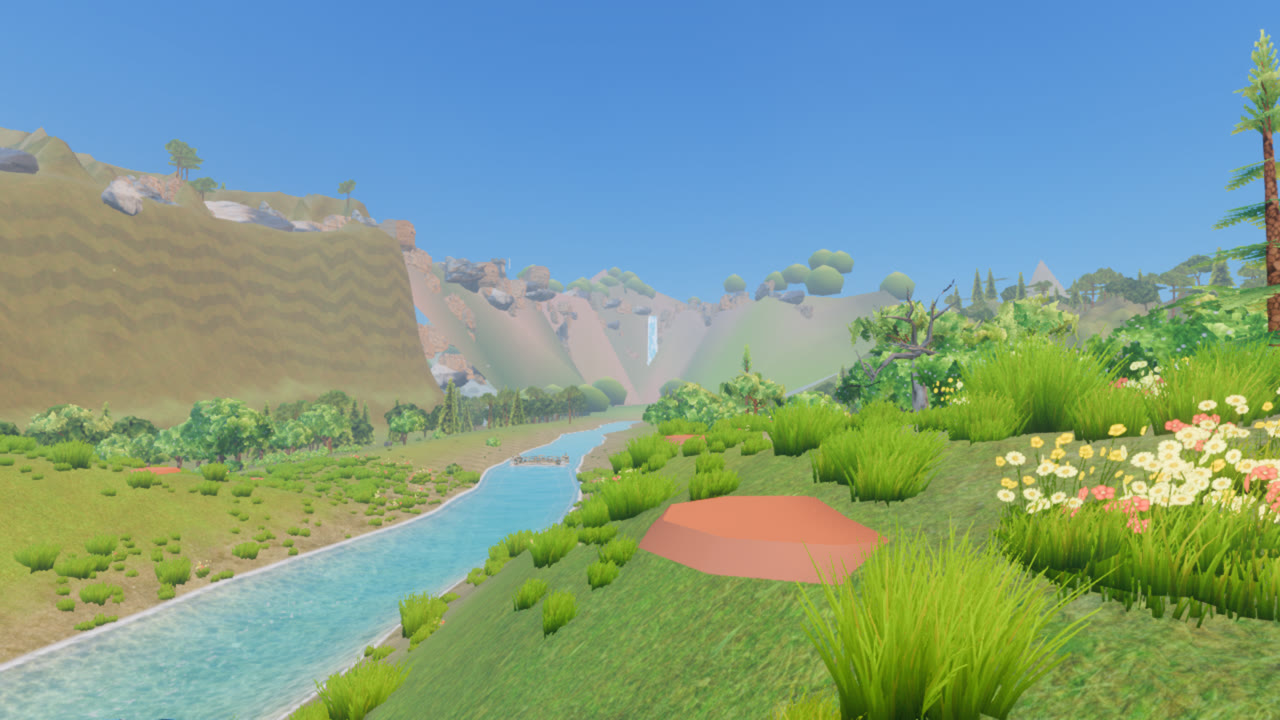
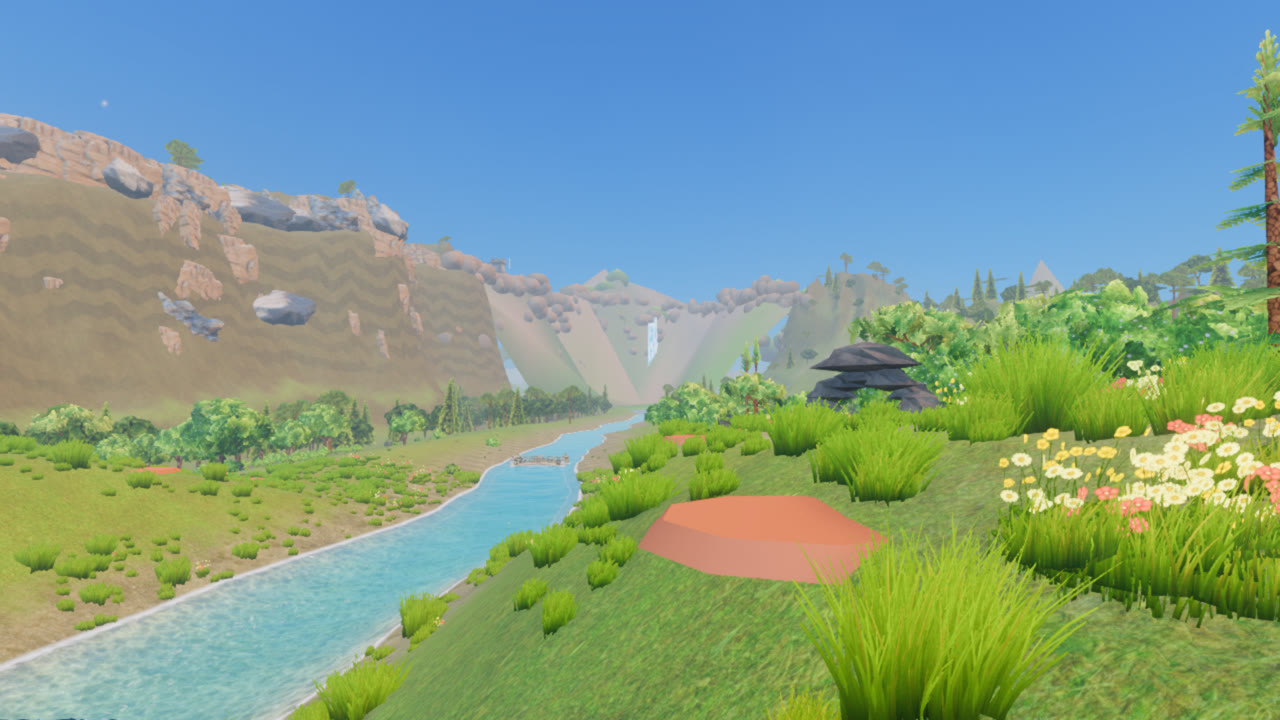
Region 1 look pass 2 verified + Hidden Vale fixes: seated cliff rocks, slope-aligned floor cards, streamed flyover, sandstone walls, lush vale
- Verified pass 2 (valley erosion detail, gorge gate, walk-in, parchment map): boot test BOOTFLOW OK, captures read.
- Hidden Vale (cloud handoff item 2): rocks seated on the rendered mesh (Region1Look.mesh_floor), floor/ cards follow
  the slope (TerrainStreamer.slope_basis), the discovery flyover streams around its camera path (Engine meta
  stream_focus, read by main.gd), horizon gives way only where chunks are built and domes sit on its grid,
  sandstone rock hue + stone on steep faces, biome map re-baked vale-aware, vale litter 0.3 -> 0.1.
- Two valleys kept distinct (Hollin's Reach public story valley, Hidden Vale secret bowl): LOOK_R1.md 3b.
- LOW: no canopy domes, cliff rocks within 320 m; HIGH: far cliff rocks as 48-tri lumps past 260 m (PERF.md).
- tools_qa/region1/run_tool.tscn runs SceneTree tools with autoloads.
Unverified: phone perf; gorge walls still smooth up close.

diff --git a/docs/LOCAL_SESSION_HANDOFF.md b/docs/LOCAL_SESSION_HANDOFF.md
@@ -6,6 +6,8 @@ The user runs **two Claude sessions on this branch at the same time**: the cloud
 - Built: the Hollin's Reach valley (upper Ashrun: cliffs, falls, terraces, ruins, Stone Gap reveal, gorge gate), the Drowned Bell + Emberglass Ferry, Crownstead Mill Hill, Stagborn Glade, the Wyrm's Ribs; far horizon (whole-world low mesh + canopy domes), biome map + field patchwork, warm rock, golden-hour sky, river-carve fix, updated parchment map.
 - Code: `scripts/region1/region1_{terrain,landmarks,look,horizon}.gd`, `shaders/region1/{biome.gdshaderinc,horizon_*,waterfall}`, data in `data/region1/{landmarks,terrain_stamps}.json` + `data/region1/terrain/`.
 - Hot-file one-liners (world_gen, region_sites, region_dressing, main.gd daylight, terrain shader): see `docs/regions/HOOKS_FOR_CLOUD.md` "Region 1 look pass". Please keep them when merging; `--r1off` is the A/B switch.
+- Two valleys kept (Hollin's Reach = public story valley, Hidden Vale = secret bowl): decision in `docs/regions/LOOK_R1.md` 3b. Hidden Vale fixes (item 2 of the cloud handoff) in 3c; small edits in `vale_look.gd`, `hidden_valley.gd` (`_put`, paint litter 0.3->0.1), `exploration_director.gd` (stream focus during the flyover), `main.gd` (`terrain.focus = Engine.get_meta("stream_focus", focus)`), `terrain_streamer.gd` (`slope_basis` for floor cards).
+- `godot -s` tools that touch WorldGen may fail to compile when a dependency uses an autoload; run them through `tools_qa/region1/run_tool.tscn -- --tool=res://...gd`.
 - Tools: `tools_qa/region1/look_capture.gd` (multi-view shots + perf), `bake_valley.gd` (+ `erode_valley.py`, dandrino erosion detail), `bake_biome.gd`, `walkin.gd` (Movie Maker walk), `asset_sheet.gd`.
 
 ## Split of work (from 2026-09-27)
@@ -453,7 +455,7 @@ built with fewer nodes, and drop `_process` work when no site is within BUILD. I
 The cloud container has ~15 GB shared by all agents; full-game captures die. These need your GPU/RAM. Commits: `c30ad754` (dungeons), `eadbfd71` (Region 1 world, story, Hidden Vale, POIs). Skills to read first: `ashes-cloud-testing`, `ashes-region-content`, `ashes-visual-qa`, `ashes-handoff`.
 
 1. **Region 1 world sweep (nobody has seen it rendered).** 30 views in `kingdom/tools_qa/region1/world_views.json`, capture script `kingdom/tools_qa/region1/look_capture.gd` (the cloud wrapper was `run_cap.sh <tag> ALL`). Check every settlement landmark, Highwatch Keep, the 3 Elder Stones + waymark road, Crownstead Steward's Hall, Scar Mouth Arena, Dawn Throne chapel + guild hall, Eastern Gate queue, Grimfen Pass snow + aurora, Solkar camp (summer). Look for floating/clipping/overlapping props, and whether each town is recognisable. Done = contact sheet + list of bugs (fix placement offsets in `region1_world.gd` / `region_dressing.gd` part y-offsets yourself if trivial, else list them here).
-2. **Hidden Vale bugs** (see cloud sheet frames 2, 6, 17): boulders float mid-air inside the gorge (`scripts/world/hidden_valley.gd` / `vale_look.gd`), floating strips in the herb-patch view, the last cutscene frame shows void past the terrain ring (check the real horizon mesh in-game), gorge walls plain, ground a bit olive. Art fixes are yours; placement code fixes are fine too (tell us the lines).
+2. **DONE (local, 2026-09-30, see docs/regions/LOOK_R1.md 3c):** **Hidden Vale bugs** (see cloud sheet frames 2, 6, 17): boulders float mid-air inside the gorge (`scripts/world/hidden_valley.gd` / `vale_look.gd`), floating strips in the herb-patch view, the last cutscene frame shows void past the terrain ring (check the real horizon mesh in-game), gorge walls plain, ground a bit olive. Art fixes are yours; placement code fixes are fine too (tell us the lines).
 3. **Caves on real terrain:** hidden entrances (waterfall behind Hollin Falls, vines, rockfall, night) were only shot on a flat stand-in hill. Walk into one of each theme and fight one boss (`scripts/interiors/dungeon_*.gd`, harness `tools_qa/caves/caves_standalone.gd`). Cave mouths were too white (switched to textured rock, not re-rendered).
 4. **Map carve rim:** carve a ward stone and confirm the teal rim (`scripts/region1/r1_map_layer.gd`) reads on the map.
 5. **Perf round 3 on the real GPU + phone:** city views ~300 draw calls vs 150 budget; Hidden Vale wide views 165-180 draws (eye level 121-149); dungeons ≤ 74. Stalls/plants LOD and guard impostors were the next ideas.

diff --git a/docs/regions/LOOK_R1.md b/docs/regions/LOOK_R1.md
@@ -64,6 +64,26 @@ The upper Ashrun (from its source at (-150, -900) down to the Ashrun Bridge) is 
 | `scripts/core/main.gd` | `sky_amount` in `_update_daylight` (golden hour). |
 | `shaders/terrain.gdshader` | include `region1/biome.gdshaderinc`, 2 lines to apply it, 1 line warm rock. |
 
+## 3b. Two valleys, one region (decision, 2026-09-30)
+The cloud built **the Hidden Vale** (`scripts/world/hidden_valley.gd`, commit eadbfd71) while this pass built **Hollin's Reach**. They do not overlap and are kept as two distinct places:
+| | Hollin's Reach | The Hidden Vale |
+|---|---|---|
+| Where | upper Ashrun, (-205, -660), 700 m from Ashford | far west, (-2040, 40), 2 km from Ashford |
+| Shape | open river valley, 780 m long, cliffs 60-100 m, falls at the head, terraces, gorge gate at the mouth | enclosed bowl behind a rim, one S-bend slot 6-7 m wide |
+| Role | public story place: Tamsin's abandoned village, forty graves, the cut ward-stone (Acts IV-V); on the map | secret: found by rumours and a burnt map fragment; the dream settlement site; off the map until found |
+| Tech | terrain stamp as data (`Region1Terrain`, applied after all shaping) | shape function inside `_raw_height` |
+Shared: both use the Region1Look presenter (ValeLook extends it), the cliff-rock kit and `mesh_floor()` seating, the terrain shader stone and strata, and the biome map (the vale is baked lush). The Hidden Vale cave "Hollin Falls Grotto" (`region_caves.gd`) sits behind Hollin Falls, tying the two together.
+
+## 3c. Hidden Vale fixes (handoff item 2, "2026-09-30 cloud -> local")
+| Bug | Cause | Fix |
+|---|---|---|
+| Boulders floating in the gorge | rocks sat on the exact WorldGen height; the rendered 2 m grid runs well below it on a sheer wall | `Region1Look.mesh_floor()` seats every cliff rock on the lowest mesh vertex of its footprint (`vale_look.gd` line ~90, and the Hollin's Reach kit) |
+| Floating strips in the herb-patch view | flat leaf-litter / moss cards laid horizontally on slopes | `TerrainStreamer.slope_basis()` tilts `floor/` cards to the ground normal (`_plan_floor`), same in `HiddenValley._put` |
+| Void past the terrain ring in the last cutscene frame | the flyover looks 300 m past the frozen player, whose ring was the only one streamed; the far canopy domes hovered over the gap | the vale sequence streams around the flyover (`Engine.set_meta("stream_focus")`, read by `main.gd` for terrain/water focus); the horizon only gives way where a chunk is really built (built-chunk mask); domes sit on the horizon grid |
+| Gorge walls plain | the grey-green scan read olive, and leaf litter/path blended into steep faces | terrain shader: sandstone hue for the rock layer, steep faces drop litter/path weights, strata bands; rocks seated on the walls |
+| Ground a bit olive | the biome map (baked before the vale) painted dry gold there; the vale compensated with 30 % leaf litter | biome map re-baked vale-aware (lush, no dry/heather/fields); vale litter blend 0.3 -> 0.1 |
+Proof: `look/vale/*_before.jpg` / `*_after.jpg`, `look/vale/sheet_before.jpg`, `sheet_after.jpg`. Still open: gorge walls read smooth up close (a proper rock-face kit with LOD1 is in the backlog); far horizon rims are soft at 48 m.
+
 ## 4. Proof
 | | |
 |---|---|
